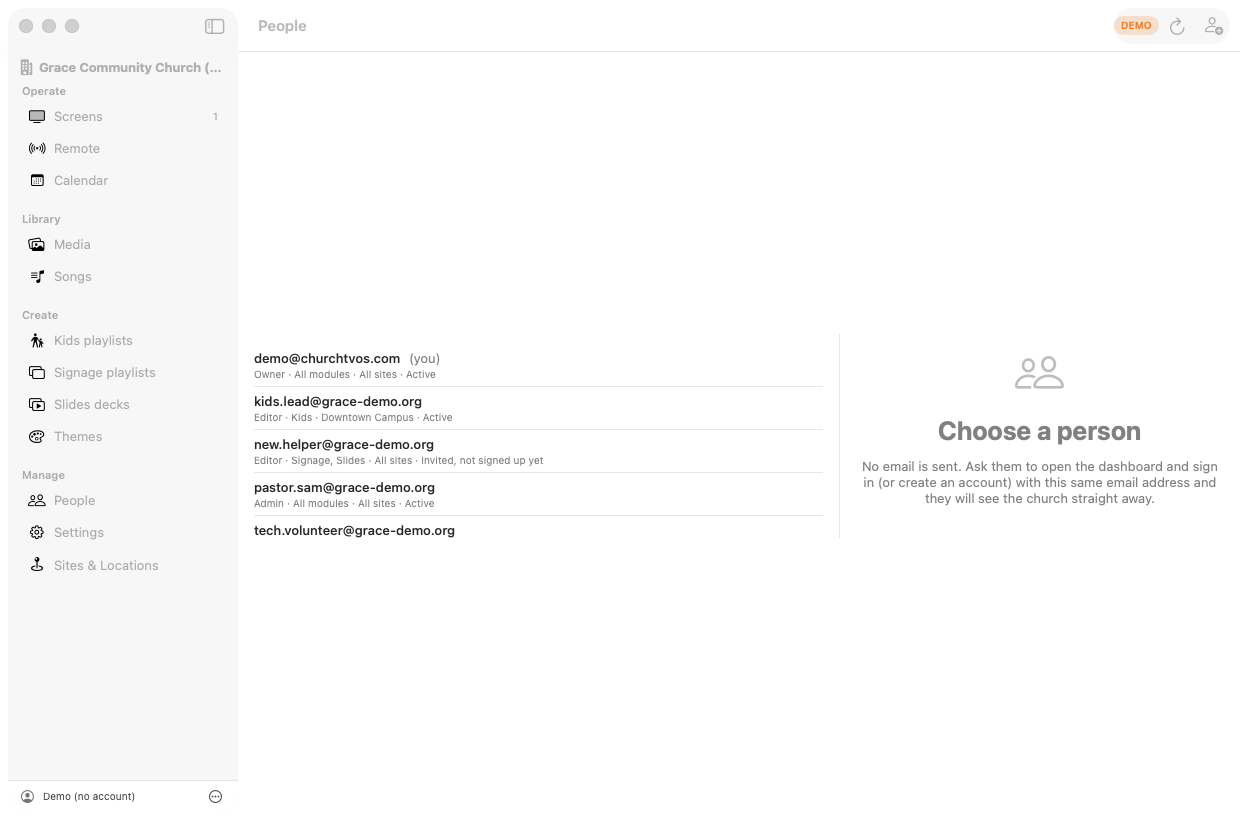
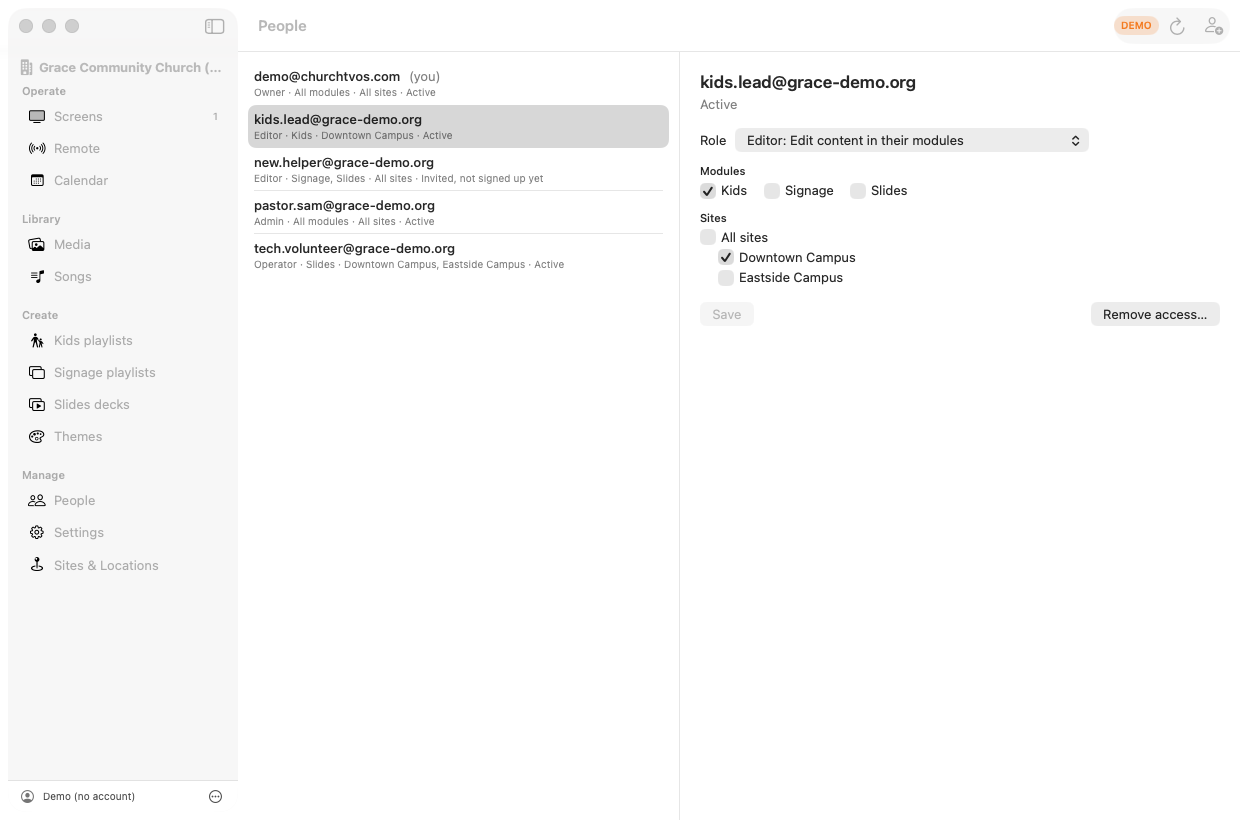
Mac: native media library, songs library with importers, editors and calendar embedded, platform admin console, README

diff --git a/apple/ChurchTVMac/App/Native/AdminSection.swift b/apple/ChurchTVMac/App/Native/AdminSection.swift
@@ -418,8 +418,8 @@ private struct EntitlementEditor: View {
                 Picker("Status", selection: $status) { ForEach(AdminLogic.statuses, id: \.self) { Text($0).tag($0) } }.frame(width: 150)
                 Stepper(value: $limit, in: 0...9999) { Text("TV limit \(limit)") }.frame(width: 140)
                 TextField("Plan name", text: $plan).frame(width: 120)
-                VStack(alignment: .leading, spacing: 2) { Toggle("Trial / period ends", isOn: $hasEnd); if hasEnd { DatePicker("", selection: $end, displayedComponents: .date).labelsHidden() } }
-                VStack(alignment: .leading, spacing: 2) { Toggle("Grace ends", isOn: $hasGrace); if hasGrace { DatePicker("", selection: $grace, displayedComponents: .date).labelsHidden() } }
+                VStack(alignment: .leading, spacing: 2) { Toggle("Trial / period ends", isOn: $hasEnd).fixedSize(); if hasEnd { DatePicker("", selection: $end, displayedComponents: .date).labelsHidden() } }
+                VStack(alignment: .leading, spacing: 2) { Toggle("Grace ends", isOn: $hasGrace).fixedSize(); if hasGrace { DatePicker("", selection: $grace, displayedComponents: .date).labelsHidden() } }
                 Spacer()
                 Button(current == nil ? "Add" : "Save") { Task { await run { try await app.admin?.adminUpsertEntitlements([row]) } } }.buttonStyle(.borderedProminent)
                 if current != nil {

diff --git a/apple/ChurchTVMac/App/Native/PeopleSection.swift b/apple/ChurchTVMac/App/Native/PeopleSection.swift
@@ -94,6 +94,7 @@ struct PeopleSection: View {
             members = try await ops.listMembers(organizationId: org)
             sites = (try? await model.service.listSites(organizationId: org)) ?? []
             loadError = nil
+            if CommandLine.arguments.contains("-personpick"), selection == nil { selection = members.first(where: { $0.role == .editor })?.id }
         } catch { loadError = Formatting.message(for: error) }
         loaded = true
     }

diff --git a/apple/ChurchTVMac/App/Native/SongsSection.swift b/apple/ChurchTVMac/App/Native/SongsSection.swift
@@ -105,6 +105,7 @@ struct SongsSection: View {
             songs = try await app.service.listSongs(organizationId: org)
             usage = (try? await app.library?.songUsage(organizationId: org)) ?? [:]
             loadError = nil
+            if CommandLine.arguments.contains("-songpick"), selection == nil { selection = filtered.first?.id }
         } catch { loadError = Formatting.message(for: error) }
         loaded = true
     }

diff --git a/apple/README.md b/apple/README.md
@@ -3,7 +3,7 @@
 - `ChurchTVCore/` Swift package shared by every Apple app: models, Supabase wrapper (`SupabaseService`), `MockService` (demo mode), formatting, unit tests.
 - `ChurchTVEditors/` Swift package with the SwiftUI content editors (Create section, playlist/deck/theme editors, scheduling sheet, media/song pickers, UI kit). iOS 17 + macOS 14, depends only on ChurchTVCore. Used by the Remote app; the Mac app can import it.
 - `ChurchTVRemote/` the iPhone and iPad app (SwiftUI, bundle id `com.churchtvos.remote`, name "Church TV OS Remote"). `project.yml` is the XcodeGen spec; `ChurchTVRemote.xcodeproj` is generated from it and also checked in.
-- `ChurchTVMac/` the Mac app (SwiftUI + WKWebView, bundle id `com.churchtvos.mac`, name "Church TV OS"). See "Mac app" below.
+- `ChurchTVMac/` the Mac app (native SwiftUI with a web fallback pane, bundle id `com.churchtvos.mac`, name "Church TV OS"). See "Mac app" below.
 - `screenshots/` simulator screenshots taken in demo mode (`mac-*.png` are from the Mac app).
 
 Deployment target: iOS 17.0 (supabase-swift 2.55.4 needs iOS 16, the app uses the Observation framework from iOS 17). Swift language mode 5 (toolchain Swift 6.x).
@@ -77,42 +77,49 @@ Build 2 (CURRENT_PROJECT_VERSION 2) adds a **Create** section: Kids playlists, S
 
 # Mac app (`ChurchTVMac/`)
 
-Phase M1 of `APPS-PLAN.md`: a native shell around the website plus a menu bar item. macOS 14+, SwiftUI with AppKit/WebKit where needed, reuses `ChurchTVCore`.
+Native SwiftUI app (macOS 14+, bundle id `com.churchtvos.mac`, team 4K3495W2H2). The website is only a **fallback pane** for sections that are not native yet (today: "Sites & Locations"). Reuses `ChurchTVCore`, `ChurchTVEditors` and `ChurchTVCalendar`.
 
 ## What is in it
-- **Main window**: one `WKWebView` (persistent default data store, so the web sign-in survives restarts) loading https://app.churchtvos.com. Same-site links stay in the window; external links and `target=_blank`/`window.open` open in the default browser. JavaScript alert/confirm/prompt are native sheets, file inputs open `NSOpenPanel`, downloads (`WKDownload`) go to Downloads with a "Show in Finder" note, loading bar, offline/error page with Retry, window title follows the page, window frame is remembered, zoom is remembered. Light/dark follows the system. The web view lives for the whole app run (also with the window closed).
-- **Menus**: App (About with version, Settings, Hide, Quit), File (Open Dashboard in Browser), Edit (standard), View (Reload ⌘R, Back ⌘[, Forward ⌘], Actual Size ⌘0, Zoom In ⌘+, Zoom Out ⌘-, Full Screen), Go (Screens ⌘1, Control ⌘2, Calendar ⌘3, Songs ⌘4: hash routes), Window (+ Show TV Status ⇧⌘T), Help (Help, Privacy, Terms, Delete my account; these open in the browser).
-- **Menu bar item** (`MenuBarExtra`, window style): TV icon with a status dot (green all online, amber some offline, grey signed out/none). Popover: church picker, each TV with online dot, state chip, now-showing line with slide x of y, Previous / Next / Blank-Unblank / Stop, "Send message…" (text, seconds, presets, clear), Open dashboard, Control page (#control), Sign out, Use demo data, Settings, Quit. Refreshes every 3 s while a popover/status window is visible, every 15 s otherwise. `Window > Show TV Status` shows the same view as a normal window (handy for testing).
-- **Settings (⌘,)**: account (email, church, role, sign out, fallback sign-in sheet), show menu bar item, Dock icon on/off (menu-bar-only mode; the two can never both be off), Launch at login (`SMAppService.mainApp`), offline-alert toggle per church (writes `notification_prefs`, asks notification permission, registers for remote notifications, upserts `push_devices` with platform `macos`, environment `sandbox` in Debug / `production` in Release, deletes the row on sign-out), Use demo data (`MockService`), About and links.
+- **Sign in**: email + password with the same Supabase account as the website (`NativeSignInView`), "Try the demo" (MockService). The session lives in the Keychain (supabase-swift) and the SDK refreshes it (`autoRefreshToken: true`). The old website-to-menu-bar session bridge was removed: the fallback web view keeps its own, separate sign-in. Sign out also clears the web view's sign-in.
+- **Window**: `NavigationSplitView`. Sidebar groups: Operate (Screens, Remote, Calendar), Library (Media, Songs), Create (Kids playlists, Signage playlists, Slides decks, Themes), Manage (People, Settings, Sites & Locations = web fallback), Admin (platform admins only). Church switcher on top, account menu at the bottom, offline-TV count badge on Screens. Visibility follows the website's `buildNav` (`AppSection.isVisible`: role, live modules, `ContentPermissions`, `rpc('is_platform_admin')`). Window frame is remembered (`WindowFrameSaver`), last section is remembered, light/dark follow the system, Dock badge = number of offline TVs.
+- **Menus**: File (Pair a TV ⌥⌘N, Refresh ⌘R, Open Dashboard in Browser ⇧⌘O), View (sidebar), Go (⌘1...⌘0 = the visible sections), Remote (Next ⌥⌘→, Previous ⌥⌘←, Blank ⌥⌘B, Stop ⌥⌘., Send Message ⌥⌘M), Window (Show Church TV OS Window ⌥⌘0, Show TV Status ⇧⌘T), Help. The menu bar extra and `TV Status` window work as before; Preferences (⌘,) has menu bar/Dock/login/alerts/demo.
+- **Screens** (`ScreensSection`): list with status and what is playing, detail with now playing, rename, location, orientation, default module, group, signage default playlist, autoplay, unpair (confirm), "Pair a TV" sheet (code, location, name; plan limit message from `claim_screen`). Owners and admins edit; others see details.
+- **Remote** (`RemoteSection`): TV picker, previous/next, blank, stop, start a deck or playlist (duration), send message, slide list (double-click = jump). Same `send_screen_command` protocol as the iPhone app.
+- **People** (`PeopleSection`): list, invite, change role/modules/sites, remove (not yourself). Mirrors PeoplePage.tsx exactly (insert/update/delete on `memberships`, same validation texts, owners/admins always have everything). Owners/admins only.
+- **Settings** (`ChurchSettingsSection`): church name, logos (upload to `media/<org>/branding/`), colours, splash, per-module looks (Kids/Signage/Slides, anything unset inherits), YouTube channel id, plan (read only). Branding is edited as raw JSON so unknown keys survive a save.
+- **Create** (`ContentSections`): the editors package. `MenuModel` is the `ContentHost` (service, church, screens, Play now through the remote protocol via `EditorPlayNow`). `CreateRoot(initialSection:)` pins each sidebar entry to Kids, Signage, Slides decks or Themes.
+- **Calendar**: `ChurchTVCalendar`. Tapping a block opens the real `ScheduleSheet`; "+" or dragging out a time asks which deck/playlist to schedule, then opens the `ScheduleSheet` (it picks the room and time itself, the dragged time is not passed on).
+- **Media** (`MediaSection`): Kids/Signage/Slides libraries, folders (breadcrumb, create, rename, move, delete moves contents up), search, rename/move/delete files (also multi-select with Cmd/Shift-click), drag a file onto a folder to move it, Finder drag-and-drop and "Add files" (⌘U) upload with per-file progress. Delete-protection and duplicate-folder errors from the server are shown in plain alerts ("... is used in: ... Remove it from those playlists first."). Upload is the standard SDK upload (stage-based progress, not resumable or background: Core has no resumable upload yet). Warning chip above 200 MB.
+- **Songs** (`SongsSection`): list/search, editor (title, authors, CCLI, copyright, lines per slide, sections, custom order, live slide preview), duplicate, delete (usage errors shown), import by file picker, Finder drop or pasted text. Parsers are the Swift port of `songParsers.ts` (`ChurchTVCore/Library/SongParsers.swift`, `SongParserTests`): SongSelect `.usr`, ChordPro, plain text; duplicate titles can be skipped, replaced or added as a copy.
+- **Admin** (`AdminSection`, platform admin only): churches table with stats, search, bucket filter and sortable columns; church detail with plan presets and per-module entitlement editor (the "grants"), live preview, suspend/reactivate with reason, mark reviewed, experimental NDI switch, internal notes, people (add/remove), screens, usage, activity; global Activity log with filters and paging. Deleting a church is intentionally left to the website.
 
-## Sign in once (session bridge)
-The website (supabase-js) keeps its session in `localStorage["sb-gqkefjngblgomuovaivj-auth-token"]`. `MenuModel` reads it with `evaluateJavaScript` every 15 s (3 s while the popover is open), once the page has loaded on app.churchtvos.com, and hands it to `SupabaseService.setSession` (supabase-swift stores it in the Keychain). Rules:
-- The website owns the refresh token. The Mac `SupabaseService` is created with `autoRefreshToken: false` and a session is only adopted while its access token is still valid (> 30 s left), so the SDK never rotates the refresh token behind the website's back (that would sign the website out). When the website refreshes, the new access token is picked up on the next read. If the token has expired and the page is not refreshing (for example the machine slept), the popover says to open the dashboard window.
-- Website signed out (key gone) -> the menu bar signs out too. Sign out in the Mac app -> the SDK session and the website's `sb-*-auth-token` keys are cleared and the page reloads to the login screen. The offline-alert push token row is deleted first.
-- Tokens are never logged (`WebSession.description` hides them) and are not stored anywhere except the SDK's Keychain storage.
-- Fallback: Settings > "Sign in here instead…" signs in natively (email + password) for the menu bar only; such a session is not tied to the website and is not signed out by the bridge.
-Pure logic (JSON parsing, key names, expiry, link routing, status roll-up) lives in `ChurchTVCore/MacSupport.swift` with tests in `MacSupportTests.swift`.
+## Core additions for the Mac app (`ChurchTVCore`)
+`Operations/` (`OperationsService`, models, rules, `SupabaseOperations`, `DemoOperations`), `Library/SongParsers.swift`, `Admin/AdminLogic.swift`. Three protocols (`OperationsService`, `LibraryService`, `AdminService`) with throwing defaults; `SupabaseService` and `MockService` conform in extensions, so `Service.swift` and `MockService.swift` were not touched. Demo state that MockService cannot hold lives in `DemoOpsStore` (screen edits are an overlay applied by `overlayScreens`).
 
 ## Build and run
 ```
 cd apple/ChurchTVMac
 ./build.sh                       # ad-hoc signed local build -> build/Build/Products/Debug/Church TV OS.app
 open "build/Build/Products/Debug/Church TV OS.app" --args -demo      # demo data, no account needed
+python3 sync_xcodeproj.py        # after adding or removing Swift files under App/ (XcodeGen is not required)
 ```
-`build.sh` signs ad hoc with `Resources/ChurchTVMac-LocalTest.entitlements` (sandbox on, network, user-selected files, Downloads, and NO push entitlement, because `aps-environment` is a restricted entitlement that macOS only accepts with a provisioning profile; an app signed with it ad hoc will not launch). In Xcode with a team set, the real `Resources/ChurchTVMac.entitlements` is used (App Sandbox, network client, user-selected files read/write, Downloads read/write, `aps-environment`; Hardened Runtime is on). Test launch arguments: `-demo`, `-url https://app.churchtvos.com/help/` (first page to load; same host only).
-Regenerate the project after editing `project.yml`: `xcodegen generate` (XcodeGen can be built from source: `git clone https://github.com/yonaskolb/XcodeGen && swift build -c release`). The `.xcodeproj` is checked in.
+`build.sh` signs ad hoc with `Resources/ChurchTVMac-LocalTest.entitlements` (sandbox, network, user-selected files, Downloads, no push). With the team set (project.yml and the checked-in project use 4K3495W2H2) Xcode uses `Resources/ChurchTVMac.entitlements` (sandbox, network client, user-selected files read/write, Downloads, `aps-environment`; Hardened Runtime on). The Keychain needs no extra entitlement for the app's own items.
+Debug launch arguments (all with `-demo`; `-demoadmin` makes the demo user a platform admin): `-section screens|remote|calendar|media|songs|kids|signage|slides|themes|people|settings|sites|admin`, `-mediamodule kids|signage|slides`, `-songpick`, `-personpick`, `-admintab activity`, `-adminopen <part of a church short name>`, calendar: `-calmode day|3day|week -caldate 2026-10-25 -callane <name> -calcreate`, `-url <website page>` for the fallback pane. Screenshots (`screenshots/mac-*.png`) are taken with `screencapture -l <window id>`.
+In demo mode the sample TV code for "Pair a TV" is `DEM 123`.
 
 ## Signing, notarizing, distributing
-1. Set the team: Xcode > target > Signing & Capabilities > Team, or `DEVELOPMENT_TEAM` in `project.yml` (left empty on purpose) and regenerate. Register the App ID `com.churchtvos.mac` with the **Push Notifications** capability (Xcode does this with automatic signing).
-2. **Outside the Mac App Store (Developer ID)**: Product > Archive > Distribute App > Direct Distribution (Developer ID, hardened runtime is already on) > Upload for notarization, then export the stapled app and put it in a `.dmg` or `.zip`. Command line alternative: `xcrun notarytool submit App.zip --keychain-profile <profile> --wait` then `xcrun stapler staple "Church TV OS.app"`. Push needs a provisioning profile with the push entitlement for Developer ID too (Xcode creates it).
-3. **Mac App Store**: Distribute App > App Store Connect, create the app record for `com.churchtvos.mac` first. Same notes as the iPhone app apply (billing stays on the website, no prices in the app; Delete account link is in Help and Settings).
-4. **Push key**: the APNs key is shared with the iPhone app: see `supabase/functions/notify-offline/README.md`. The Mac topic is `com.churchtvos.mac` (the function picks it for rows with platform `macos`; set `APNS_TOPIC_MAC` if the id changes). No extra key is needed beyond enabling Push on the Mac App ID.
-5. Archive builds are Release: they register push tokens as `production`; Debug as `sandbox`.
+1. Team 4K3495W2H2 is set. Register the App ID `com.churchtvos.mac` with Push Notifications (Xcode does this with automatic signing).
+2. **Outside the Mac App Store (Developer ID)**: Product > Archive > Distribute App > Direct Distribution > notarize, staple, put in a `.dmg`/`.zip`. Command line: `xcrun notarytool submit App.zip --keychain-profile <profile> --wait` then `xcrun stapler staple "Church TV OS.app"`.
+3. **Mac App Store**: create the app record for `com.churchtvos.mac` first; billing stays on the website (no prices in the app); Delete account is in Help and Preferences.
+4. **Push**: shared APNs key, topic `com.churchtvos.mac` (see `supabase/functions/notify-offline/README.md`).
 
 ## Known limits and things to check on a real account
-- Not verified without an account: real sign-in, the bridge against a real session, token adoption/Keychain write in a signed build, push registration and delivery, uploads and Finder drag and drop through the web view. WKWebView supports `<input type=file>` (via `NSOpenPanel`, implemented) and dropping Finder files onto page drop zones natively (the media page uses `dragover`/`drop` with `dataTransfer.files`), so no bridge was written; if a drop does not reach the page, the fallback is a native drop target on the web view that forwards file URLs through `NSOpenPanel`-style injection (not built).
-- Links with `target=_blank` to the same site (for example the Help link, "/#songs") open in the default browser by design.
-- Only the first four sections have Go-menu shortcuts; pages a person cannot see fall back to their first page.
+- Not verified without an account: real sign-in and Keychain persistence in a signed build, every write against the real database (screens, people, branding, media, songs, admin RPCs), file uploads (the Mac upload code path is only covered by the demo service), push delivery, the fallback web view's own sign-in.
+- Finder drag-and-drop upload and song import by drop use SwiftUI `dropDestination(for: URL.self)`; they compile and the demo service path is tested, but the drop gestures were not driven by hand.
+- Calendar: gestures and shortcuts of the calendar package are untested on the Mac by hand. Dragging out a range does not pass the time into the `ScheduleSheet`.
+- "Open this church" from the Admin console is not built (a platform admin without a membership has no church to switch to in the Mac app); use the website for that and for deleting a church.
+- The Create lists still say "Swipe a row to duplicate, schedule or delete" (editors package text); on the Mac use the context menu or the row buttons the list offers.
+- A user who used the old session bridge must sign in once natively.
 
 ## Scheduling (build 2)
 `ScheduleSheet(target:)` (`App/Create/Schedule/`): Kids playlists and Slides decks go to locations (one-off `schedules`/`deck_schedules` or weekly `kids_series`/`deck_series` with a rotation, loop/stop), Signage playlists go to screens or screen groups (`signage_slots`, optional priority = highest existing + 1). Wall-clock times are converted in the site's time zone (`SiteClock`, DST safe); the sheet shows the zone and highlights it when it differs from the phone. Core: `Content/ScheduleLogic.swift` (form, rows, expander, overlap hints), `ScheduleService.swift` (`ChurchService` now also extends `ScheduleService`, defaults throw), `SupabaseService+Schedule.swift`, `MockService+Schedule.swift`. Upcoming list reads the `*_series_occurrences` RPCs (14 days); "Skip next date" writes a `skip` exception. Debug launch args: `-schedule deck|kids|signage`, `-schedmode repeat`, `-schedpick`, `-schedscroll when|upcoming`.
